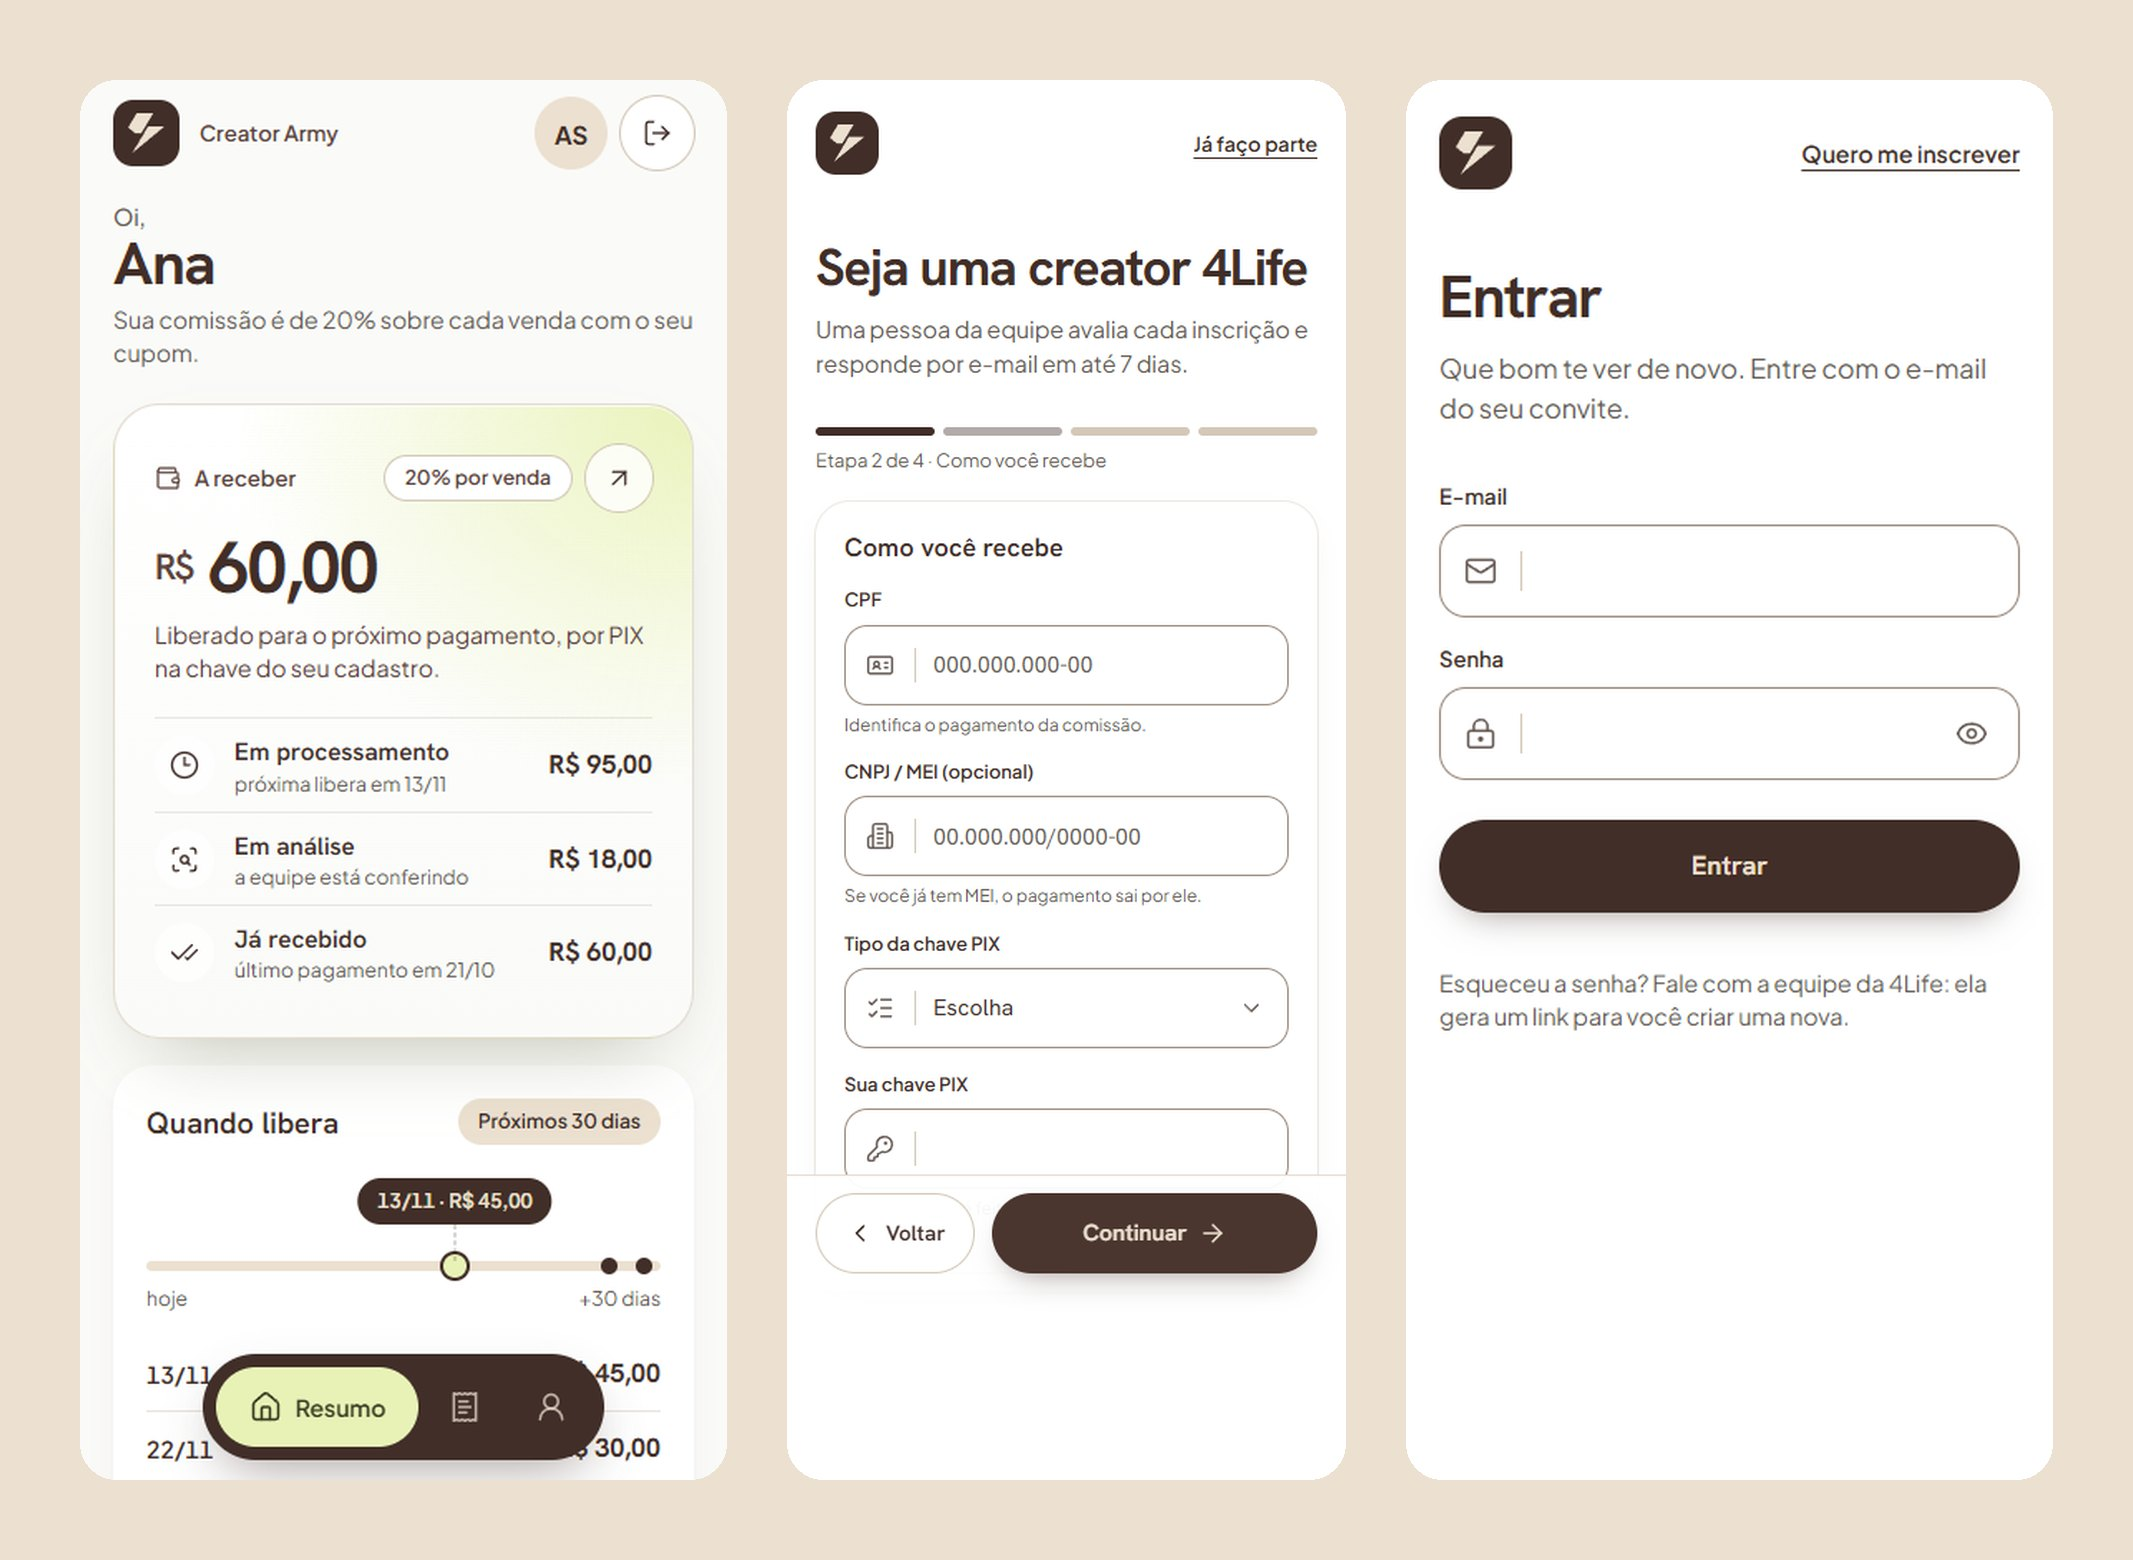
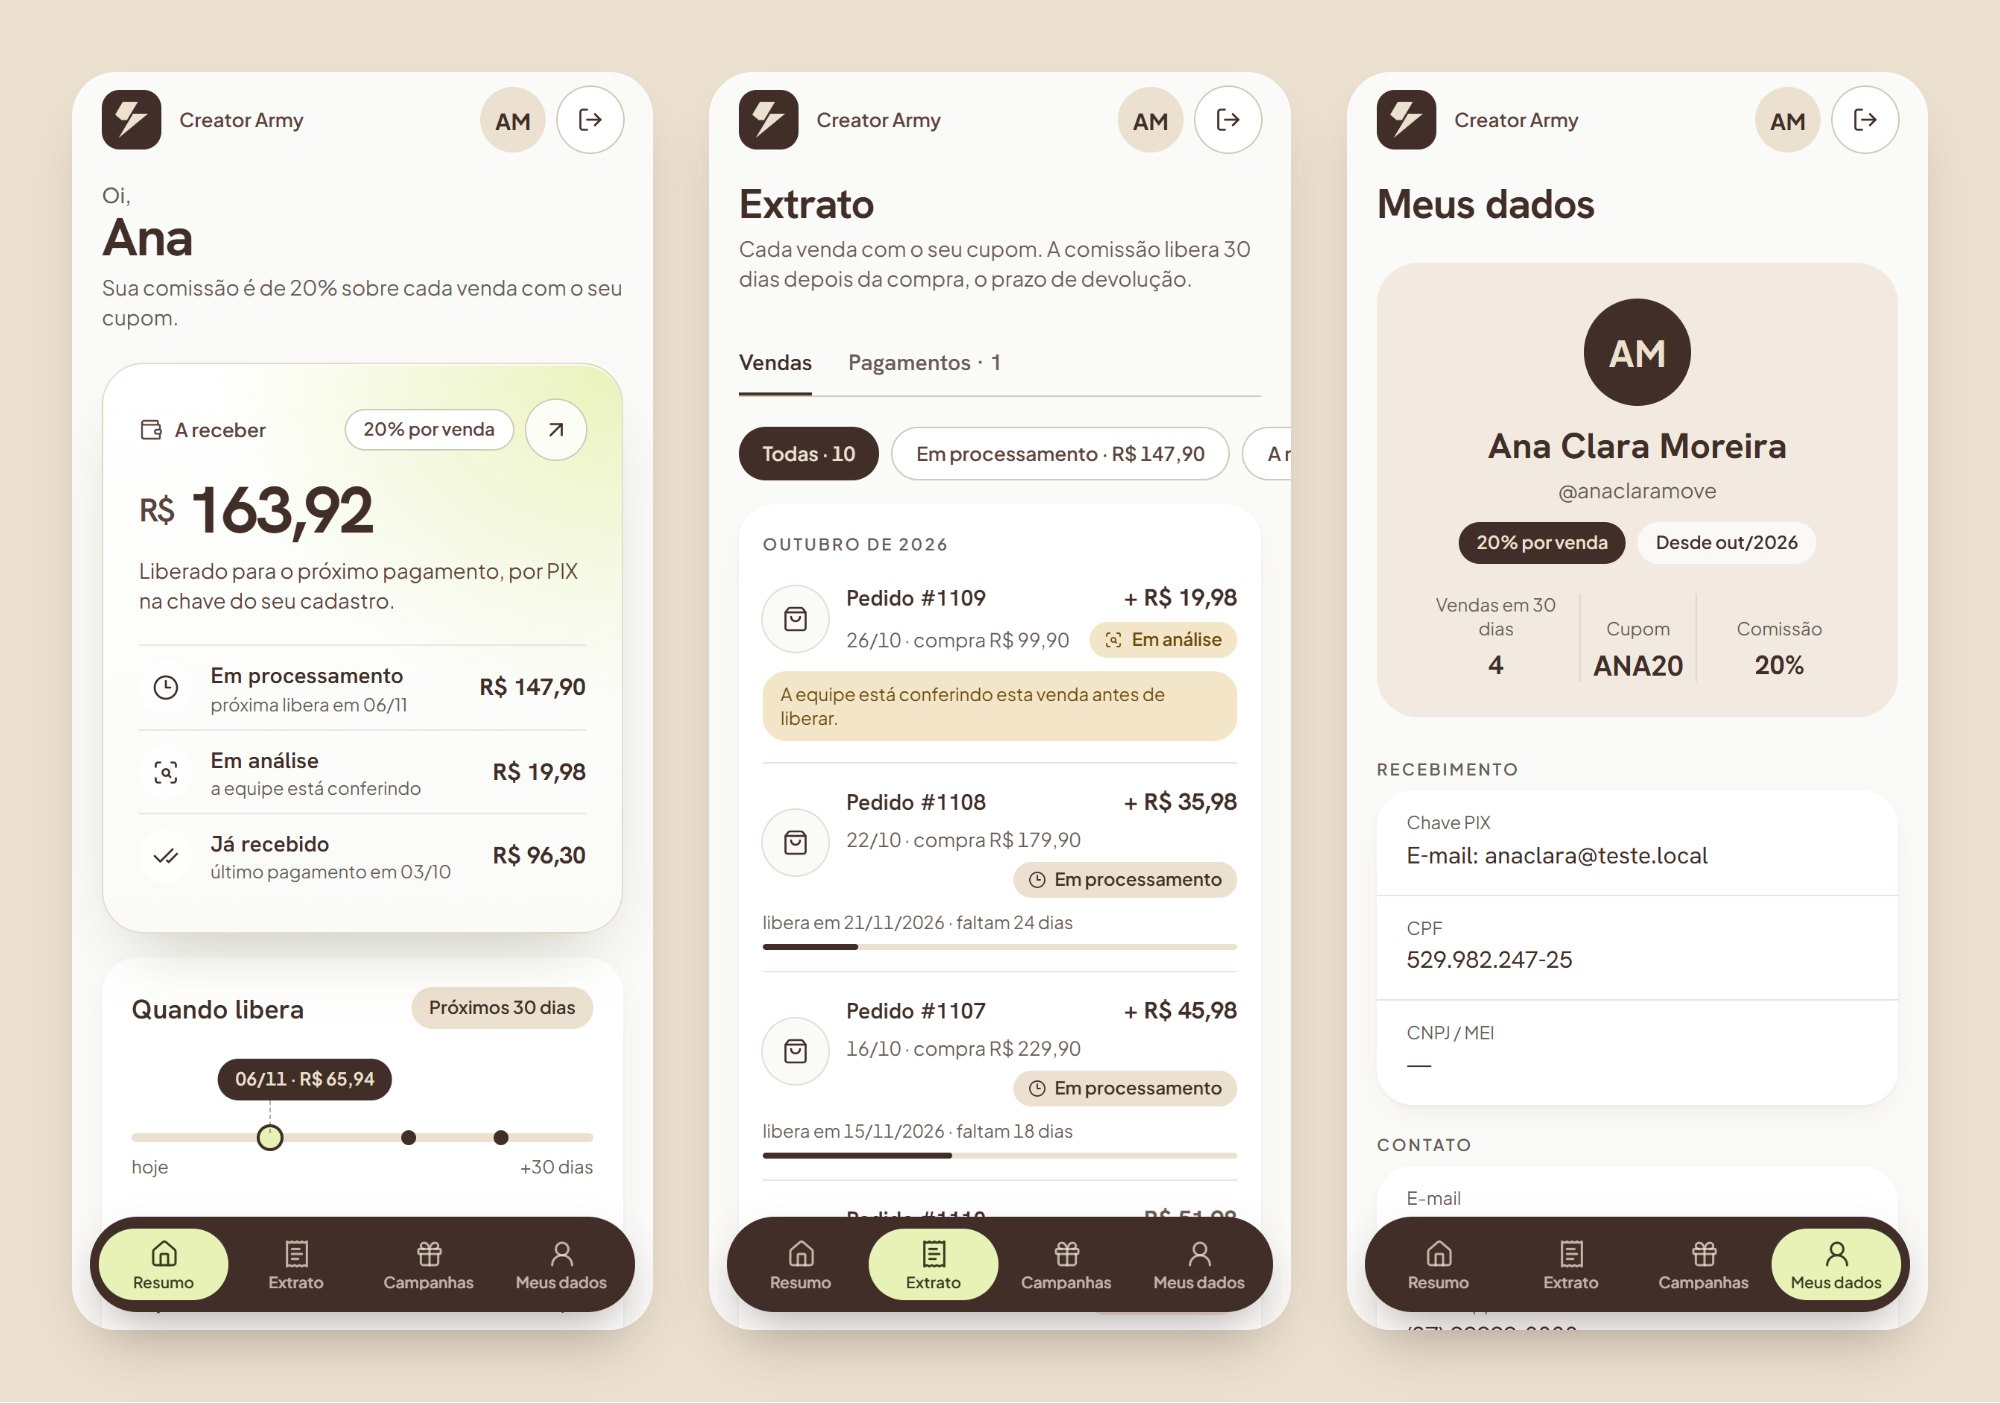
Campanhas de produto, painel da equipe e a rodada de critica de design

diff --git a/README.md b/README.md
@@ -16,13 +16,23 @@ As telas da plataforma aparecem com dados de demonstração. O portal e o painel
 
 ![Landing no desktop](assets/21-lp-desktop.jpg)
 
-**Portal da creator, cadastro e entrada.** O resumo responde em 3 segundos quanto há a receber, quando libera e o que está em análise. O cadastro virou quatro etapas curtas, e o login segue o padrão de app, com ícone em cada campo e botão escuro.
+**Portal da creator.** O resumo responde em 3 segundos quanto há a receber, quando libera e o que está em análise. O extrato soma cada estado no próprio filtro, e cada venda mostra quanto falta para liberar. No celular a navegação fica embaixo, ao alcance do polegar, com o nome em todas as abas.
 
-![Portal, cadastro e entrada no celular](assets/22-plataforma-celular.jpg)
+![Resumo, extrato e dados no celular](assets/22-plataforma-celular.jpg)
 
-| Resumo no desktop | Fila da equipe |
+**Campanhas de produto.** A creator vê as campanhas abertas, escolhe o sabor, confirma o endereço e se inscreve. Quem já se inscreveu abre a campanha e encontra o resultado no topo, antes da foto e das regras.
+
+![Campanhas no celular](assets/25-campanhas-celular.jpg)
+
+![Resumo no desktop](assets/23-plataforma-desktop.jpg)
+
+**Painel da equipe.** A fila de inscrições, a ficha de cada campanha com quem se inscreveu, e as comissões com quanto está liberado para pagar. Ação que apaga dado ou tira acesso pede um segundo clique no mesmo lugar, sem modal, e tem Voltar.
+
+| Fila de inscrições | Campanha |
 |---|---|
-| ![Resumo no desktop](assets/23-plataforma-desktop.jpg) | ![Fila de inscrições](assets/24-equipe-fila.jpg) |
+| ![Fila de inscrições](assets/24-equipe-fila.jpg) | ![Ficha da campanha](assets/26-equipe-campanha.jpg) |
+
+![Comissões da equipe](assets/27-equipe-comissoes.jpg)
 
 ## Como funciona
 
@@ -30,7 +40,7 @@ As telas da plataforma aparecem com dados de demonstração. O portal e o painel
 2. A creator preenche o formulário público e a ficha cai numa fila no painel. A equipe aprova, com o percentual combinado, ou recusa. Ficha que ninguém avalia é apagada em 7 dias, porque ela guarda CPF, endereço e chave Pix de quem ainda não é parceira.
 3. Quem é aprovada recebe por e-mail um link que vale 7 dias e só funciona uma vez. Antes de criar a senha, ela confere a chave Pix que vai receber a comissão.
 4. A creator ganha um cupom só dela, conferido contra todos os cupons da loja. O cupom é uma promoção nativa da loja, então o checkout não precisa de nenhum caminho especial. A venda conta para a creator pelo cupom do pedido, sem cookie nem pixel.
-5. Nas campanhas de produto, a equipe define produto, regras, período e número de vagas. A creator escolhe a variação, confirma o endereço e se inscreve. Cada participação aprovada vira um pedido de envio com valor zero dentro da loja, sem disparar os e-mails de compra.
+5. Nas campanhas de produto, a equipe escolhe o produto no catálogo da loja e define regras, período e número de vagas. A creator escolhe o sabor, confirma o endereço e se inscreve. Duas inscrições ao mesmo tempo não furam o limite de vagas, e quem não foi selecionada não volta para a fila. Cada participação selecionada vira um pedido de envio com valor zero dentro da loja, sem disparar os e-mails de compra.
 6. No painel, a equipe tem a fila de cadastros, a ficha de cada creator, as comissões em análise, os membros da equipe e o registro de pagamentos.
 
 ## A comissão
@@ -63,7 +73,7 @@ Pedido cancelado ou estornado anula a comissão. Se ela já tinha sido paga, o a
 
 O dono do projeto mandou uma referência de app de creators: cartão de saldo grande com brilho, navegação em pílula escura, login limpo. A pedido dele, três propostas independentes traduziram a referência para a identidade da 4Life por ângulos diferentes (fiel à referência, orgânica da marca e clareza do dinheiro), e uma avaliação comparou as três antes de virar uma especificação única.
 
-Venceu a clareza do dinheiro, com enxertos das outras duas. A peça que melhor mostra a escolha é a régua "Quando libera": onde a referência tinha um gráfico de engajamento, o portal mostra a data e o valor de cada liberação dos próximos 30 dias. É a pergunta que a creator faz de verdade. "Em análise" fica fora da régua, porque não tem data. O lima da marca é usado só no que é da creator, numa lista fechada de lugares, e todas as combinações de cor foram medidas para passar no contraste AA.
+Venceu a clareza do dinheiro, com enxertos das outras duas. Depois de pronta, a plataforma passou por uma crítica de design em duas avaliações independentes: uma revisão pelas heurísticas de Nielsen e um detector automático de anti-padrões. O detector não achou nada. A revisão deu 23 de 40 e virou uma rodada de correções: confirmação nas ações que apagam dado, nomes nas abas do celular, totais para a equipe e o resultado da campanha no topo da tela. A peça que melhor mostra a escolha é a régua "Quando libera": onde a referência tinha um gráfico de engajamento, o portal mostra a data e o valor de cada liberação dos próximos 30 dias. É a pergunta que a creator faz de verdade. "Em análise" fica fora da régua, porque não tem data. O lima da marca é usado só no que é da creator, numa lista fechada de lugares, e todas as combinações de cor foram medidas para passar no contraste AA.
 
 ## Segurança
 
@@ -98,7 +108,7 @@ flowchart TB
 
 O app novo tem repositório, banco, login e deploy próprios, e nunca abre conexão com o banco da loja. Ele fala com a loja só pela API admin do Medusa, numa lista fechada de 7 rotas: o próprio cliente da API recusa qualquer chamada fora dela, e a chave dedicada da integração nasce restrita a essas rotas. O deploy também é separado: um usuário próprio no servidor que só consegue rodar o script de deploy do programa, com volta automática para a versão anterior se a verificação de saúde falhar.
 
-**Onde a migração está.** A landing nova já roda no domínio próprio. O cadastro, o portal e o painel da equipe estão prontos e testados de ponta a ponta, atrás de uma chave que mantém tudo fechado até o corte. As creators de verdade continuam no portal antigo até lá. A varredura muda só a fonte, da consulta direta para a API, e continua idempotente. Antes do corte ela roda em sombra, recalculando toda comissão ao lado da antiga, e a troca só acontece depois de 7 dias sem nenhuma diferença.
+**Onde a migração está.** A landing nova já roda no domínio próprio. O cadastro, o portal, as campanhas e o painel da equipe estão prontos e testados de ponta a ponta, atrás de uma chave que mantém tudo fechado até o corte. As creators de verdade continuam no portal antigo até lá. A varredura muda só a fonte, da consulta direta para a API, e continua idempotente. Antes do corte ela roda em sombra, recalculando toda comissão ao lado da antiga, e a troca só acontece depois de 7 dias sem nenhuma diferença.
 
 ## Stack
 
